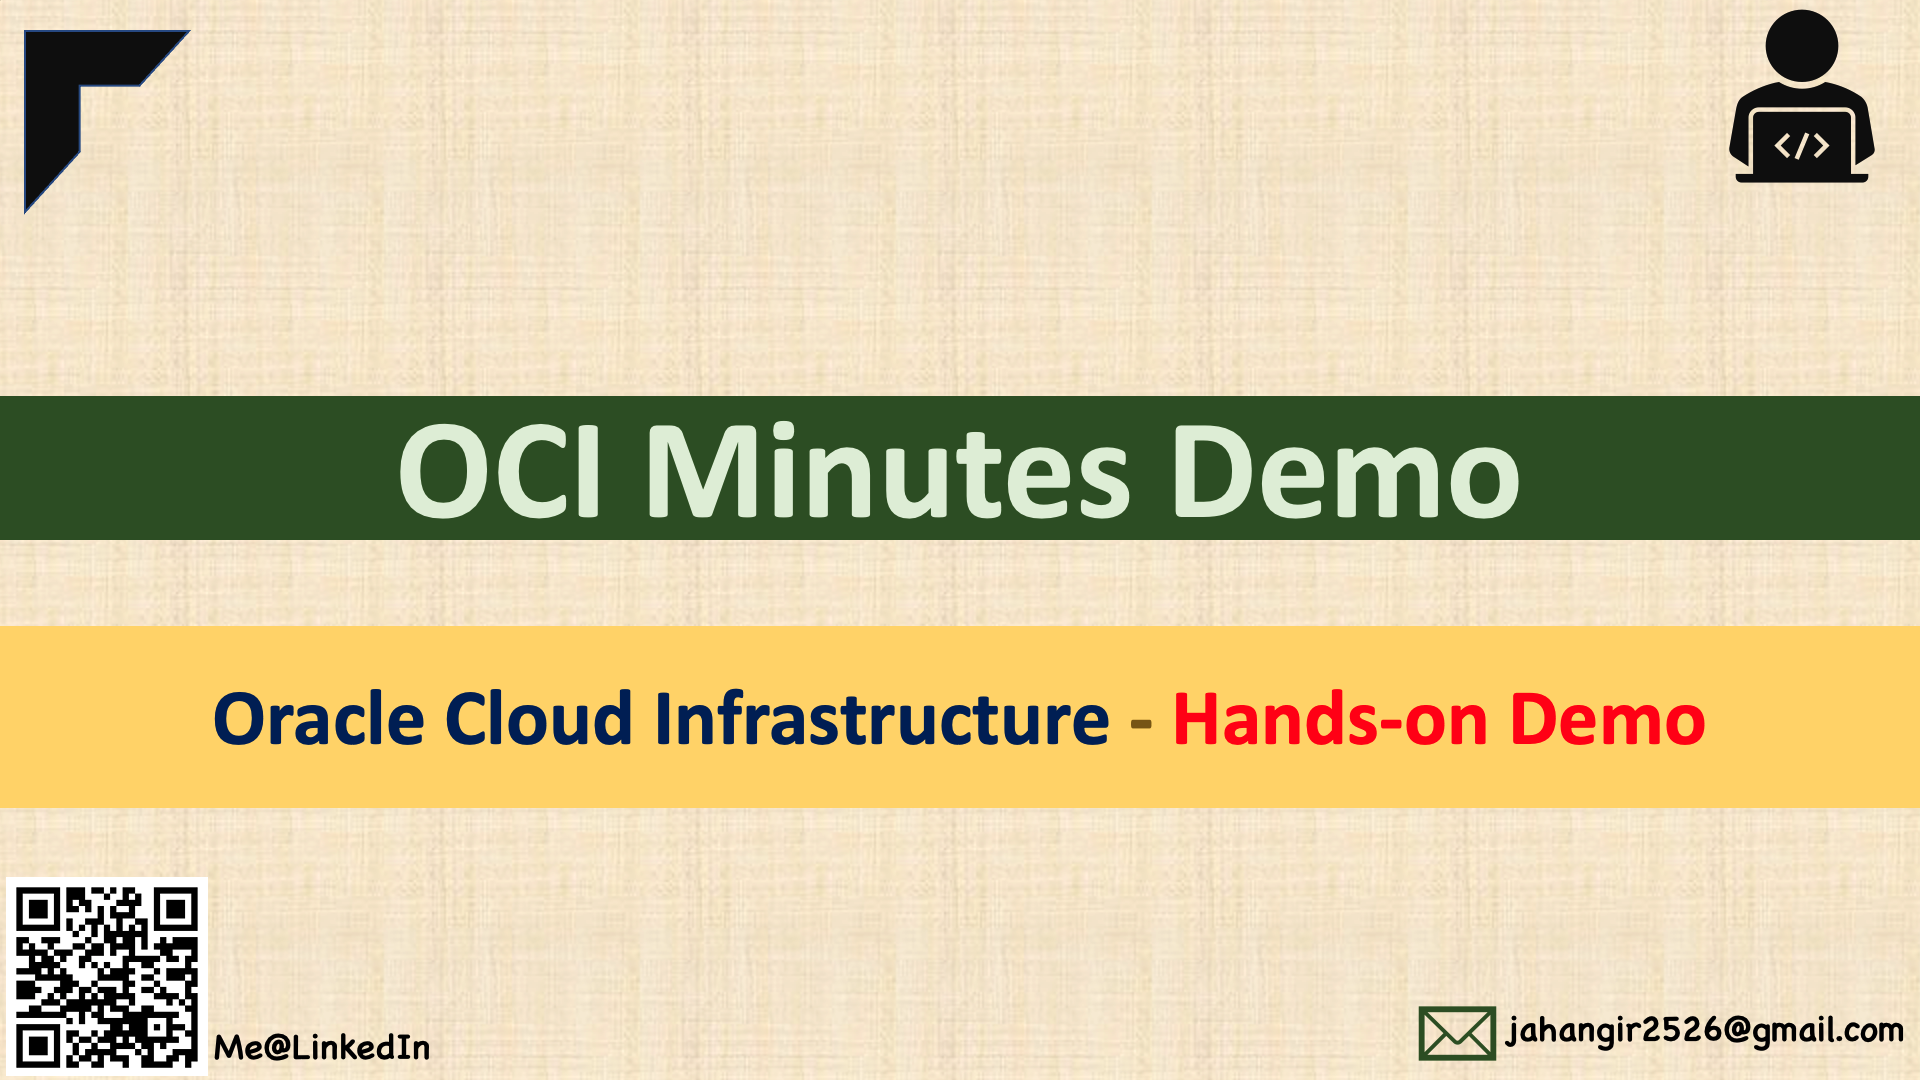
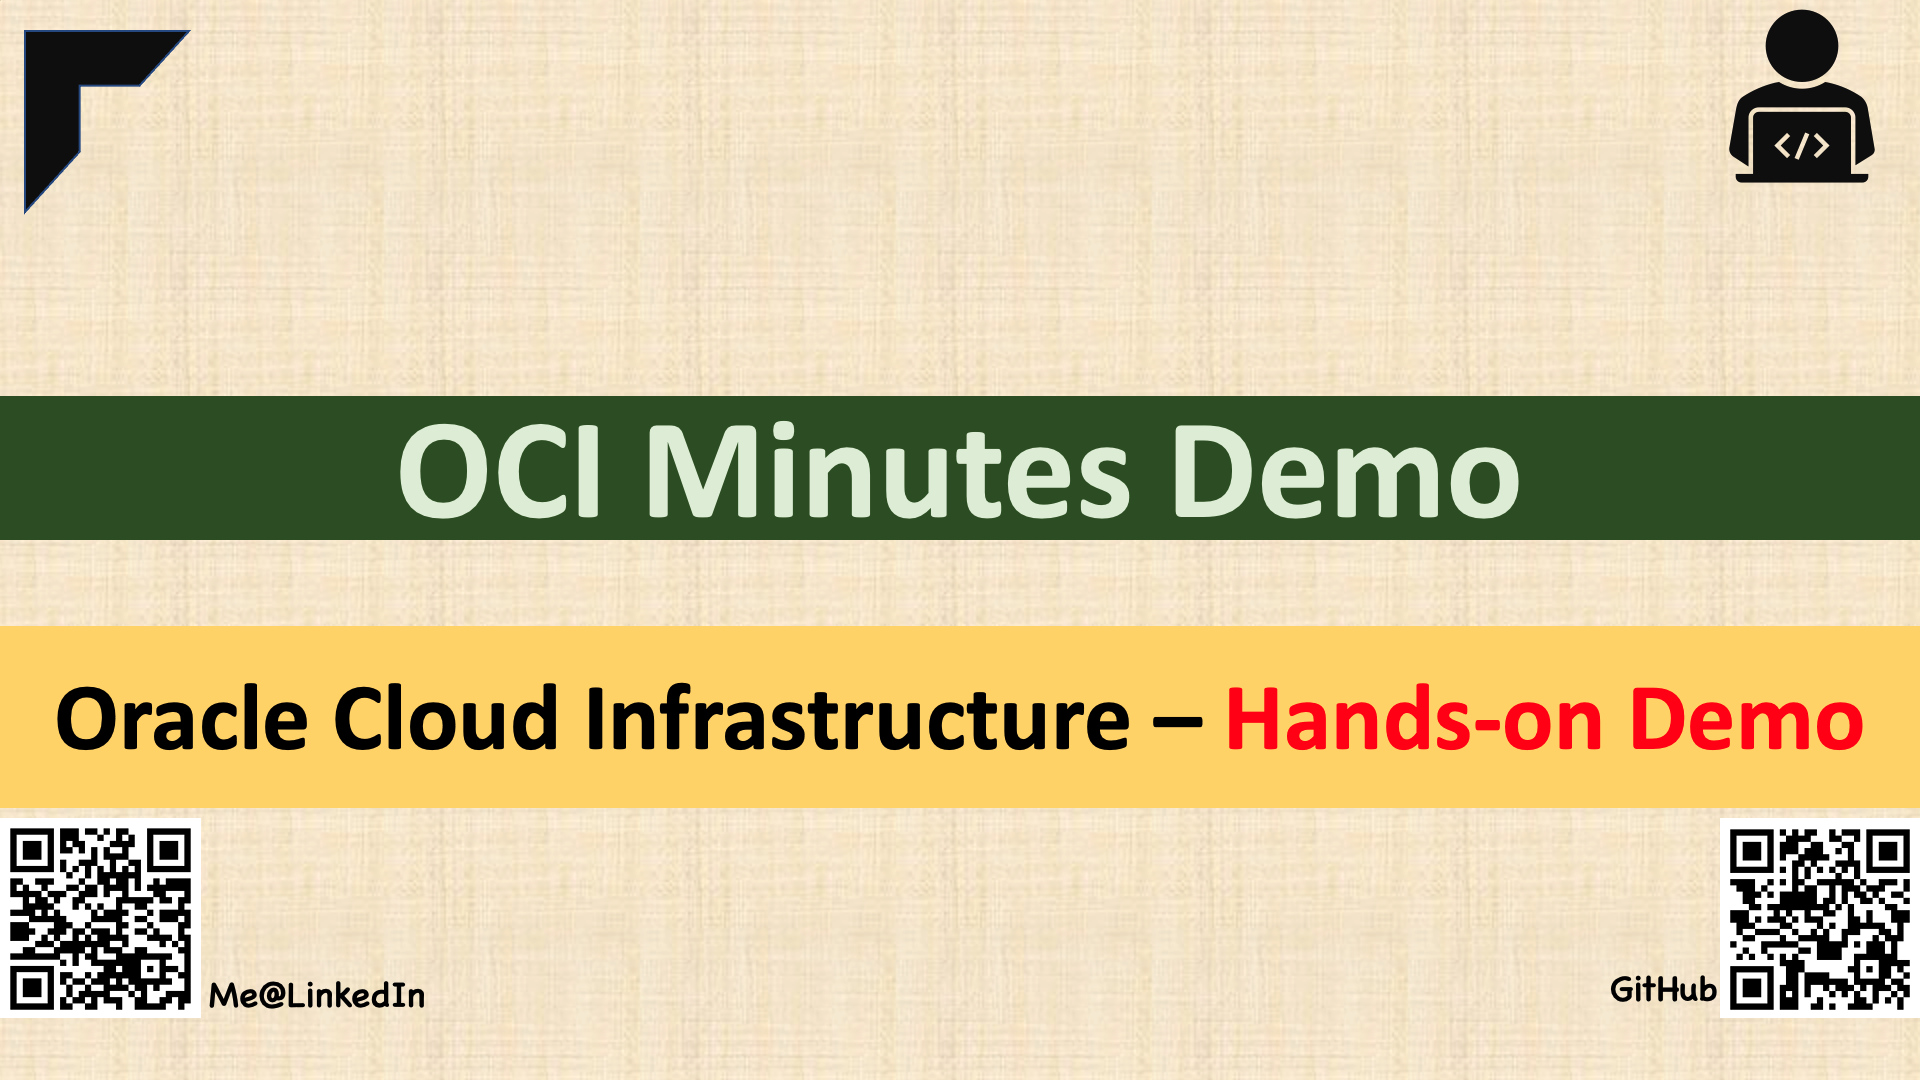
updated on Mon Nov 16 22:06:13 +08 2020

Changed region(s): [[0.0312, 0.6111, 0.9688, 0.7028], [0.0, 0.7333, 0.2188, 1.0], [0.7188, 0.7333, 1.0, 1.0]]

diff --git a/README.md b/README.md
@@ -1,14 +1,10 @@
-
-
-<img src="img/home.png" alt="home" style="zoom:50%;" />
-
-------
+[![Home Page](img/home.png)](https://www.youtube.com/channel/UCS5pANiji2QBLoUVNPsbDvQ/ "Click for Youtube Channel")
 
 
 
 ## TABLE OF CONTENTS
 
-| Area       | Sub Area       | Demo Code                            | Topic (Click to watch the Youtube Video)                     | Status    |
+| Area       | Sub Area       | Code (GitHub)                        | Topic (Click to watch the Youtube Video)                     | Status    |
 | ---------- | -------------- | ------------------------------------ | ------------------------------------------------------------ | --------- |
 | Essentials | NA             | [**ESSENTIAL-100A**](ESSENTIAL-100A) | [Generate API Signing Keys \| Add Public Key \|Retrieve OCIDs](https://youtu.be/byuz_xRhn9U) | Available |
 | Networking | VCN            | [**NET-100A-VCN**](NET-100A-VCN)     | [Create VCN resources using OCI Console](https://youtu.be/TUvFwSRR1Hk) | Available |

diff --git a/NET-100A-VCN/README.md b/NET-100A-VCN/README.md
@@ -26,11 +26,5 @@ This demo will create a **VCN** with **2xSL, 2xRT, IGW, NATGW** <u>**using conso
 
 
 
-## Demo@Youtube: 
-
-[Create VCN resources using OCI Console](https://youtu.be/TUvFwSRR1Hk)
-
-
-
 
 

diff --git a/ESSENTIAL-100A/README.md b/ESSENTIAL-100A/README.md
@@ -1,7 +1,5 @@
 # ESSENTIAL-100A : **Generate API Signing** Keys|Add Public Key| Retrieve OCIDs
 
-
-
 ## Overview
 
 The demo will cover three tasks
